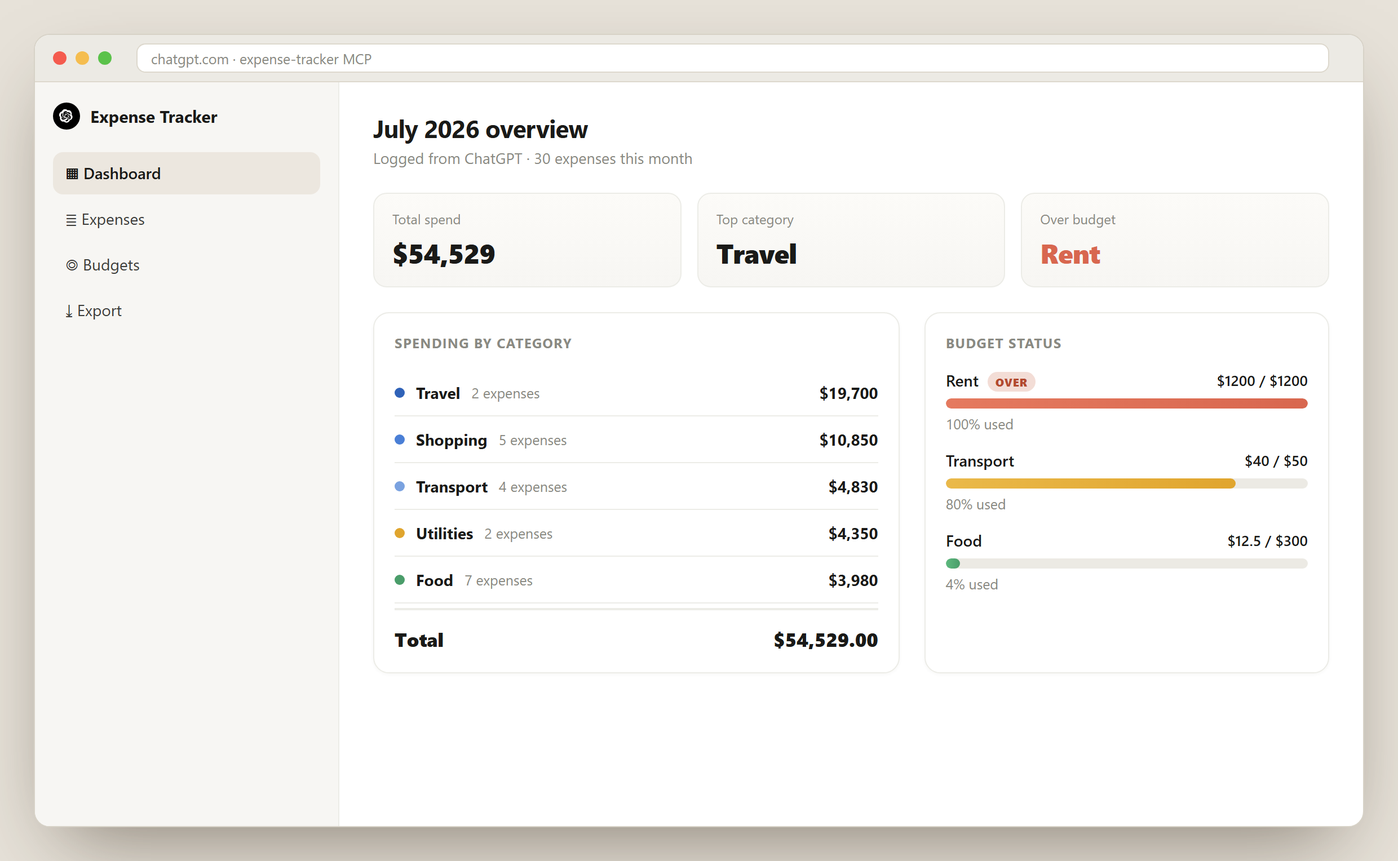
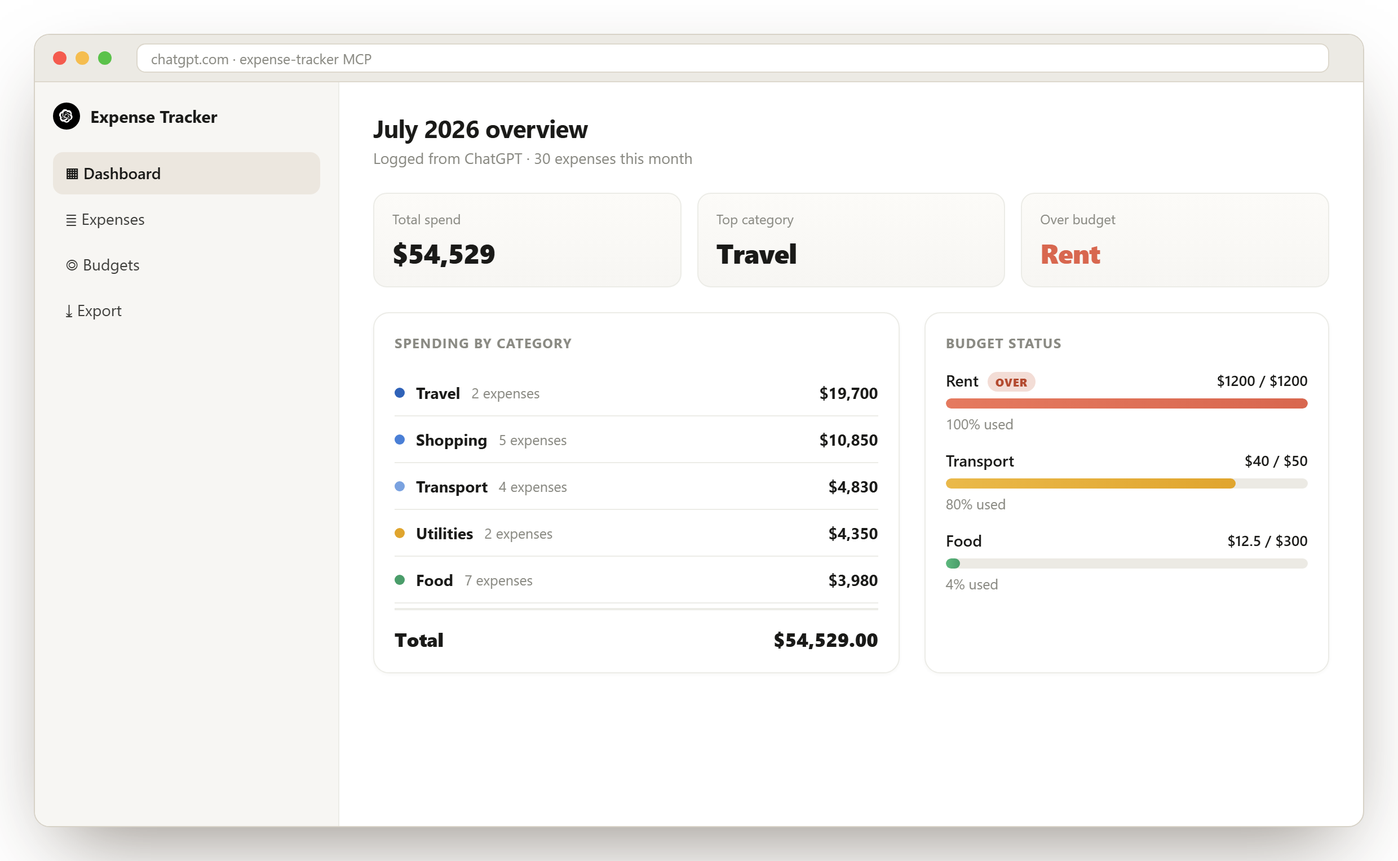
Polish marketing site + transparent PNG mockups
Site (site/index.html):
- Balanced CTAs: 'Add to Claude' + 'Add to ChatGPT' equal weight; neutral
  'Get started' in nav; Gemini added to trust bar and copy.
- Hero reframed around input methods: 'Type it. Say it. Snap it.' with
  voice / prompt / receipt-photo chips; faux-chat demo poster with a typing
  indicator instead of an empty box.
- Product showcase section embedding the rendered UI screens (both
  assistants) with per-screen labels, brand tags, and a grounding glow.
- UX pass: mobile hamburger menu, sticky-nav shadow + scroll-spy active
  link, spotlight hover on the how-it-works steps, fixed sparkle icons.

Marketing kit: export mode now renders a fully transparent canvas (html +
body), so the regenerated PNGs have no baked-in backdrop.

Changed region(s): [[0.0, 0.0, 1.0, 1.0], [0.8694, 0.4306, 0.9315, 0.4614]]

diff --git a/site/index.html b/site/index.html
@@ -3,7 +3,7 @@
 <head>
 <meta charset="utf-8" />
 <meta name="viewport" content="width=device-width, initial-scale=1" />
-<title>Expense Tracker MCP — Track expenses. Just by typing.</title>
+<title>Expense Tracker MCP — Track expenses. Type it. Say it. Snap it.</title>
 <meta name="description" content="The MCP server that gives Claude, ChatGPT, and any AI assistant the ability to log, search, and summarize your spending — no bank linking, no new app to learn." />
 <style>
   :root{
@@ -37,8 +37,11 @@
   .btn-primary{background:linear-gradient(180deg,var(--violet2),var(--violet));color:#fff;
     box-shadow:0 8px 24px -8px var(--glow),inset 0 1px 0 rgba(255,255,255,.25);}
   .btn-primary:hover{transform:translateY(-2px);box-shadow:0 14px 34px -10px var(--glow),inset 0 1px 0 rgba(255,255,255,.3);}
+  .btn-alt{background:#fff;color:#0a0a0f;box-shadow:0 8px 24px -10px rgba(255,255,255,.35),inset 0 1px 0 rgba(255,255,255,.6);}
+  .btn-alt:hover{transform:translateY(-2px);box-shadow:0 14px 34px -12px rgba(255,255,255,.4);}
   .btn-ghost{background:var(--panel);border-color:var(--line2);color:var(--ink);}
   .btn-ghost:hover{border-color:var(--violet);color:#fff;background:var(--panel2);}
+  .blogo{width:17px;height:17px;flex:0 0 17px;}
 
   /* ---------- nav ---------- */
   header.nav{position:sticky;top:0;z-index:50;backdrop-filter:blur(14px);
@@ -49,10 +52,29 @@
     display:grid;place-items:center;box-shadow:0 4px 14px -4px var(--glow);flex:0 0 28px;}
   .mark svg{width:16px;height:16px;}
   .nav nav{display:flex;gap:28px;align-items:center;}
-  .nav nav a{color:var(--ink2);font-size:14px;font-weight:500;transition:.15s;}
-  .nav nav a:hover{color:var(--ink);}
+  .nav nav a.lnk{color:var(--ink2);font-size:14px;font-weight:500;transition:.15s;position:relative;}
+  .nav nav a.lnk:hover{color:var(--ink);}
+  .nav nav a.lnk.active{color:var(--ink);}
+  .nav nav a.lnk.active::after{content:"";position:absolute;left:0;right:0;bottom:-22px;height:2px;background:var(--violet);border-radius:2px;}
   .nav .btn{padding:9px 16px;font-size:14px;}
-  @media(max-width:820px){.nav nav .lnk{display:none;}}
+  header.nav.scrolled{background:rgba(10,10,15,.9);box-shadow:0 8px 30px -18px rgba(0,0,0,.8);}
+  .menu-btn{display:none;width:40px;height:40px;border:1px solid var(--line2);border-radius:10px;background:var(--panel);
+    flex-direction:column;gap:4px;align-items:center;justify-content:center;cursor:pointer;}
+  .menu-btn span{width:16px;height:2px;background:var(--ink2);border-radius:2px;transition:.25s;}
+  .menu-btn.open span:nth-child(1){transform:translateY(6px) rotate(45deg);}
+  .menu-btn.open span:nth-child(2){opacity:0;}
+  .menu-btn.open span:nth-child(3){transform:translateY(-6px) rotate(-45deg);}
+  .mobile-menu{display:none;flex-direction:column;gap:2px;padding:8px 16px 18px;border-bottom:1px solid var(--line);
+    background:rgba(10,10,15,.96);backdrop-filter:blur(14px);}
+  .mobile-menu a{padding:13px 8px;color:var(--ink2);font-size:15px;border-bottom:1px solid var(--line);}
+  .mobile-menu a:last-child{border-bottom:none;}
+  .mobile-menu.open{display:flex;}
+  @media(max-width:820px){
+    .nav nav .lnk{display:none;}
+    .menu-btn{display:flex;}
+    .nav .btn.desk{display:none;}
+  }
+  @media(min-width:821px){ .menu-btn,.mobile-menu{display:none !important;} }
 
   /* ---------- hero ---------- */
   .hero{padding-top:96px;text-align:center;position:relative;}
@@ -62,7 +84,14 @@
   .hero h1{font-size:clamp(40px,6.6vw,74px);margin:22px 0 0;background:linear-gradient(180deg,#fff,#c9c6e6);
     -webkit-background-clip:text;background-clip:text;color:transparent;}
   .hero .lead{margin:22px auto 0;font-size:clamp(17px,1.7vw,21px);}
-  .hero .cta{display:flex;gap:14px;justify-content:center;margin-top:34px;flex-wrap:wrap;}
+  .modes{display:flex;gap:12px;justify-content:center;margin-top:26px;flex-wrap:wrap;}
+  .mode{display:inline-flex;align-items:center;gap:9px;padding:9px 16px;border-radius:999px;
+    border:1px solid var(--line2);background:var(--panel);color:var(--ink2);font-size:14px;font-weight:500;transition:.2s;}
+  .mode:hover{border-color:var(--violet);color:var(--ink);}
+  .mode svg{width:17px;height:17px;stroke:var(--violet2);}
+  .hero .cta{display:flex;gap:14px;justify-content:center;margin-top:30px;flex-wrap:wrap;}
+  .cta-note{margin-top:16px;color:var(--muted);font-size:14px;}
+  .cta-note b{color:var(--ink2);font-weight:600;}
   .pill{display:inline-flex;align-items:center;gap:8px;padding:6px 14px;border-radius:999px;
     border:1px solid var(--line2);background:var(--panel);font-size:13px;color:var(--ink2);}
   .pill .dot{width:7px;height:7px;border-radius:50%;background:#4ade80;box-shadow:0 0 8px #4ade80;}
@@ -80,9 +109,20 @@
   .playbtn{position:relative;width:76px;height:76px;border-radius:50%;background:linear-gradient(180deg,var(--violet2),var(--violet));
     display:grid;place-items:center;box-shadow:0 12px 40px -8px var(--glow);}
   .playbtn::before{content:"";border-left:22px solid #fff;border-top:13px solid transparent;border-bottom:13px solid transparent;margin-left:5px;}
-  .videobox .cap{position:absolute;bottom:18px;font-size:13px;color:var(--muted);font-family:var(--mono);}
+  .videobox .cap{position:absolute;bottom:16px;font-size:12.5px;color:var(--muted);font-family:var(--mono);z-index:3;}
+  .playwrap{position:relative;z-index:2;display:grid;place-items:center;}
   .videobox .ring{position:absolute;width:76px;height:76px;border-radius:50%;border:2px solid var(--violet);animation:pulse 2.4s ease-out infinite;}
   @keyframes pulse{0%{transform:scale(1);opacity:.7}100%{transform:scale(2.2);opacity:0}}
+  /* faux-chat poster behind the play button */
+  .poster{position:absolute;inset:0;padding:34px 44px;display:flex;flex-direction:column;justify-content:center;gap:12px;
+    mask-image:linear-gradient(90deg,#000 42%,transparent 78%);opacity:.9;}
+  .poster .pu{align-self:flex-end;background:linear-gradient(180deg,var(--violet2),var(--violet));color:#fff;font-size:14px;padding:9px 14px;border-radius:14px 14px 4px 14px;}
+  .poster .pa{align-self:flex-start;background:var(--panel2);border:1px solid var(--line2);color:var(--ink2);font-size:14px;padding:9px 14px;border-radius:14px 14px 14px 4px;display:flex;align-items:center;gap:9px;}
+  .poster .pa .pdot{width:16px;height:16px;border-radius:50%;background:#22c55e;display:grid;place-items:center;color:#fff;font-size:10px;flex:0 0 16px;}
+  .poster .typing{gap:5px;}
+  .poster .typing i{width:6px;height:6px;border-radius:50%;background:var(--violet2);display:inline-block;animation:blink 1.2s infinite;}
+  .poster .typing i:nth-child(2){animation-delay:.2s;} .poster .typing i:nth-child(3){animation-delay:.4s;}
+  @keyframes blink{0%,60%,100%{opacity:.25;transform:translateY(0)}30%{opacity:1;transform:translateY(-3px)}}
 
   /* ---------- trust bar ---------- */
   .trust{border-top:1px solid var(--line);border-bottom:1px solid var(--line);background:var(--bg2);padding:26px 0;}
@@ -94,14 +134,17 @@
 
   /* ---------- how it works ---------- */
   .steps{display:grid;grid-template-columns:repeat(3,1fr);gap:22px;margin-top:52px;}
-  .step{background:var(--panel);border:1px solid var(--line);border-radius:var(--radius);padding:28px;position:relative;transition:.2s;}
-  .step:hover{border-color:var(--line2);transform:translateY(-3px);}
-  .step .num{font-family:var(--mono);font-size:13px;color:var(--violet-ink);font-weight:600;letter-spacing:.1em;}
-  .step .ic{width:46px;height:46px;border-radius:12px;background:var(--panel2);border:1px solid var(--line2);display:grid;place-items:center;margin:16px 0 16px;}
+  .step{background:var(--panel);border:1px solid var(--line);border-radius:var(--radius);padding:28px;position:relative;transition:.2s;overflow:hidden;}
+  .step::after{content:"";position:absolute;inset:0;background:radial-gradient(420px circle at 50% 0%,rgba(139,92,246,.1),transparent 45%);opacity:0;transition:.3s;}
+  .step:hover{border-color:var(--line2);transform:translateY(-4px);}
+  .step:hover::after{opacity:1;}
+  .step>*{position:relative;z-index:1;}
+  .step .num{display:inline-block;font-family:var(--mono);font-size:12px;color:var(--violet-ink);font-weight:600;letter-spacing:.1em;padding:4px 10px;border:1px solid var(--line2);border-radius:999px;background:var(--panel2);}
+  .step .ic{width:46px;height:46px;border-radius:12px;background:linear-gradient(160deg,rgba(139,92,246,.2),rgba(139,92,246,.05));border:1px solid var(--line2);display:grid;place-items:center;margin:18px 0 16px;}
   .step .ic svg{width:24px;height:24px;stroke:var(--violet2);}
   .step h3{font-size:19px;margin-bottom:8px;}
   .step p{color:var(--ink2);font-size:15px;}
-  .step .line{position:absolute;top:44px;right:-22px;width:22px;height:1px;background:var(--line2);}
+  .step .line{position:absolute;top:44px;right:-22px;width:22px;height:1px;background:linear-gradient(90deg,var(--violet),transparent);z-index:2;}
 
   /* ---------- features ---------- */
   .grid6{display:grid;grid-template-columns:repeat(3,1fr);gap:18px;margin-top:52px;}
@@ -135,6 +178,38 @@
   .brow .bf{height:9px;border-radius:5px;background:linear-gradient(90deg,var(--violet2),var(--violet));}
   .brow .bv{text-align:right;color:var(--ink2);font-variant-numeric:tabular-nums;}
   .brow .bc{color:var(--muted);}
+
+  /* ---------- showcase ---------- */
+  .gallery{margin-top:56px;position:relative;}
+  .gallery::before{content:"";position:absolute;top:80px;left:50%;transform:translateX(-50%);
+    width:820px;max-width:100%;height:440px;z-index:0;pointer-events:none;
+    background:radial-gradient(closest-side,rgba(139,92,246,.22),transparent 72%);filter:blur(14px);}
+  .phones{position:relative;z-index:1;display:grid;grid-template-columns:repeat(4,1fr);gap:22px;align-items:end;}
+  .ph{margin:0;display:flex;flex-direction:column;align-items:center;transition:transform .35s ease;}
+  .ph img{width:100%;max-width:220px;height:auto;display:block;
+    filter:drop-shadow(0 26px 40px rgba(0,0,0,.55));transition:filter .35s ease;}
+  .ph:nth-child(1){transform:rotate(-1.5deg) translateY(10px);}
+  .ph:nth-child(2){transform:rotate(-.5deg);}
+  .ph:nth-child(3){transform:rotate(.5deg);}
+  .ph:nth-child(4){transform:rotate(1.5deg) translateY(10px);}
+  .ph:hover{transform:translateY(-8px) rotate(0) !important;}
+  .ph:hover img{filter:drop-shadow(0 30px 50px rgba(139,92,246,.4));}
+  .ph .lbl{display:flex;align-items:center;gap:8px;margin-top:18px;font-size:13.5px;color:var(--ink2);font-weight:500;}
+  .tag{font-size:10.5px;font-weight:700;letter-spacing:.04em;padding:3px 8px;border-radius:999px;text-transform:uppercase;}
+  .tag.claude{background:rgba(204,122,82,.16);color:#e0a07f;border:1px solid rgba(204,122,82,.35);}
+  .tag.gpt{background:rgba(255,255,255,.08);color:var(--ink2);border:1px solid var(--line2);}
+  .desks{display:grid;grid-template-columns:1fr 1fr;gap:22px;margin-top:56px;position:relative;z-index:1;}
+  .desks figure{margin:0;}
+  .desks img{width:100%;height:auto;border-radius:12px;
+    filter:drop-shadow(0 26px 44px rgba(139,92,246,.24));transition:filter .3s ease;}
+  .desks figure:hover img{filter:drop-shadow(0 30px 54px rgba(139,92,246,.4));}
+  .desks figcaption{color:var(--muted);font-size:13px;margin-top:14px;text-align:center;}
+  .gcap{color:var(--muted);font-size:14px;margin-top:38px;text-align:center;}
+  @media(max-width:860px){
+    .desks{grid-template-columns:1fr;}
+    .phones{grid-template-columns:1fr 1fr;gap:16px;}
+    .ph{transform:none !important;}
+  }
 
   /* ---------- pricing ---------- */
   .prices{display:grid;grid-template-columns:1fr 1fr;gap:22px;max-width:820px;margin:52px auto 0;}
@@ -202,8 +277,17 @@
       <a class="lnk" href="#features">Features</a>
       <a class="lnk" href="#pricing">Pricing</a>
       <a class="lnk" href="#faq">FAQ</a>
-      <a class="btn btn-primary" href="#">Add to Claude</a>
+      <a class="btn btn-primary desk" href="#pricing">Get started</a>
+      <button class="menu-btn" id="menuBtn" aria-label="Open menu" aria-expanded="false"><span></span><span></span><span></span></button>
     </nav>
+  </div>
+  <div class="mobile-menu" id="mobileMenu">
+    <a href="#how">How it works</a>
+    <a href="#features">Features</a>
+    <a href="#showcase">Product</a>
+    <a href="#pricing">Pricing</a>
+    <a href="#faq">FAQ</a>
+    <a href="#" style="color:var(--violet2);font-weight:600;">＋ Get started</a>
   </div>
 </header>
 
@@ -213,21 +297,33 @@
 <section class="hero sec">
   <div class="wrap">
     <span class="pill"><span class="dot"></span>Model Context Protocol server · v1.0</span>
-    <h1>Track expenses.<br>Just by typing.</h1>
-    <p class="lead">The MCP server that gives Claude, ChatGPT, and any AI assistant the ability to log, search, and summarize your spending — no bank linking, no new app to learn.</p>
-    <div class="cta">
-      <a class="btn btn-primary" href="#">＋ Add to Claude</a>
-      <a class="btn btn-ghost" href="#"><svg width="17" height="17" viewBox="0 0 24 24" fill="currentColor"><path d="M12 .5C5.7.5.5 5.7.5 12c0 5.1 3.3 9.4 7.9 10.9.6.1.8-.2.8-.5v-1.7c-3.2.7-3.9-1.5-3.9-1.5-.5-1.3-1.3-1.7-1.3-1.7-1.1-.7.1-.7.1-.7 1.2.1 1.8 1.2 1.8 1.2 1 1.8 2.7 1.3 3.4 1 .1-.8.4-1.3.7-1.6-2.6-.3-5.3-1.3-5.3-5.7 0-1.3.5-2.3 1.2-3.1-.1-.3-.5-1.5.1-3.1 0 0 1-.3 3.3 1.2a11.5 11.5 0 0 1 6 0C17.3 4.7 18.3 5 18.3 5c.6 1.6.2 2.8.1 3.1.8.8 1.2 1.8 1.2 3.1 0 4.4-2.7 5.4-5.3 5.7.4.4.8 1.1.8 2.2v3.3c0 .3.2.6.8.5A11.5 11.5 0 0 0 23.5 12C23.5 5.7 18.3.5 12 .5z"/></svg>View on GitHub</a>
+    <h1>Track expenses.<br>Type it. Say it. Snap it.</h1>
+    <p class="lead">The MCP server that lets Claude, ChatGPT, and any AI assistant log your spending from a typed prompt, a voice command, or a photo of a receipt or invoice — then search and summarize it all. No bank linking, no new app to learn.</p>
+    <div class="modes">
+      <span class="mode"><svg viewBox="0 0 24 24" fill="none" stroke-width="1.8" stroke-linecap="round" stroke-linejoin="round"><rect x="2" y="6" width="20" height="12" rx="2"/><path d="M6 10h.01M10 10h.01M14 10h.01M18 10h.01M7 14h10"/></svg>Type a prompt</span>
+      <span class="mode"><svg viewBox="0 0 24 24" fill="none" stroke-width="1.8" stroke-linecap="round" stroke-linejoin="round"><rect x="9" y="2" width="6" height="12" rx="3"/><path d="M5 10a7 7 0 0 0 14 0M12 17v4"/></svg>Say it out loud</span>
+      <span class="mode"><svg viewBox="0 0 24 24" fill="none" stroke-width="1.8" stroke-linecap="round" stroke-linejoin="round"><path d="M23 19a2 2 0 0 1-2 2H3a2 2 0 0 1-2-2V8a2 2 0 0 1 2-2h4l2-3h6l2 3h4a2 2 0 0 1 2 2z"/><circle cx="12" cy="13" r="4"/></svg>Snap a receipt</span>
     </div>
+    <div class="cta">
+      <a class="btn btn-primary" href="#"><svg class="blogo" viewBox="0 0 24 24" fill="#fff"><path d="M12 2c.5 4.5 3.5 7.5 8 8-4.5.5-7.5 3.5-8 8-.5-4.5-3.5-7.5-8-8 4.5-.5 7.5-3.5 8-8z"/></svg>Add to Claude</a>
+      <a class="btn btn-alt" href="#"><svg class="blogo" viewBox="0 0 24 24" fill="#0a0a0f"><circle cx="12" cy="12" r="10"/><circle cx="12" cy="12" r="4.4" fill="#fff"/></svg>Add to ChatGPT</a>
+      <a class="btn btn-ghost" href="#"><svg width="17" height="17" viewBox="0 0 24 24" fill="currentColor"><path d="M12 .5C5.7.5.5 5.7.5 12c0 5.1 3.3 9.4 7.9 10.9.6.1.8-.2.8-.5v-1.7c-3.2.7-3.9-1.5-3.9-1.5-.5-1.3-1.3-1.7-1.3-1.7-1.1-.7.1-.7.1-.7 1.2.1 1.8 1.2 1.8 1.2 1 1.8 2.7 1.3 3.4 1 .1-.8.4-1.3.7-1.6-2.6-.3-5.3-1.3-5.3-5.7 0-1.3.5-2.3 1.2-3.1-.1-.3-.5-1.5.1-3.1 0 0 1-.3 3.3 1.2a11.5 11.5 0 0 1 6 0C17.3 4.7 18.3 5 18.3 5c.6 1.6.2 2.8.1 3.1.8.8 1.2 1.8 1.2 3.1 0 4.4-2.7 5.4-5.3 5.7.4.4.8 1.1.8 2.2v3.3c0 .3.2.6.8.5A11.5 11.5 0 0 0 23.5 12C23.5 5.7 18.3.5 12 .5z"/></svg>GitHub</a>
+    </div>
+    <p class="cta-note">Also connects to <b>Gemini</b>, Cursor &amp; any MCP client</p>
 
     <div class="demo reveal">
       <div class="browserframe">
         <div class="bhead"><span class="d"></span><span class="d"></span><span class="d"></span><span class="u">claude.ai — expense-tracker MCP</span></div>
         <div class="videobox" id="video">
           <div class="grid"></div>
-          <div class="ring"></div>
-          <div class="playbtn"></div>
-          <div class="cap">▶ Demo — logging an expense in chat (autoplay muted loop)</div>
+          <div class="poster">
+            <div class="pu">spent $18 on lunch 🍜</div>
+            <div class="pa"><span class="pdot">✓</span> Added <b style="color:var(--ink)">$18.00</b>&nbsp;· Food · today</div>
+            <div class="pu">how much this week?</div>
+            <div class="pa typing"><i></i><i></i><i></i></div>
+          </div>
+          <div class="playwrap"><div class="ring"></div><div class="playbtn"></div></div>
+          <div class="cap">▶ Watch the 30-second demo</div>
         </div>
       </div>
     </div>
@@ -238,9 +334,11 @@
 <div class="trust">
   <div class="wrap"><div class="row">
     <span>Works with</span>
-    <span class="logo"><svg viewBox="0 0 24 24" fill="none" stroke="#a78bfa" stroke-width="2"><path d="M12 3v18M3 12h18" transform="rotate(45 12 12)"/></svg><b>Claude</b></span>
+    <span class="logo"><svg viewBox="0 0 24 24" fill="#a78bfa" stroke="none"><path d="M12 2c.5 4.5 3.5 7.5 8 8-4.5.5-7.5 3.5-8 8-.5-4.5-3.5-7.5-8-8 4.5-.5 7.5-3.5 8-8z"/></svg><b>Claude</b></span>
     <span class="sep"></span>
     <span class="logo"><svg viewBox="0 0 24 24" fill="none" stroke="#a78bfa" stroke-width="1.8"><circle cx="12" cy="12" r="9"/></svg><b>ChatGPT</b></span>
+    <span class="sep"></span>
+    <span class="logo"><svg viewBox="0 0 24 24" fill="#a78bfa"><path d="M12 2c.5 4.5 3.5 7.5 8 8-4.5.5-7.5 3.5-8 8-.5-4.5-3.5-7.5-8-8 4.5-.5 7.5-3.5 8-8z"/></svg><b>Gemini</b></span>
     <span class="sep"></span>
     <span class="logo"><svg viewBox="0 0 24 24" fill="none" stroke="#a78bfa" stroke-width="2"><path d="M4 5l8 4 8-4M4 5v14l8 4 8-4V5M12 9v14"/></svg><b>Cursor</b></span>
     <span class="sep"></span>
@@ -264,8 +362,8 @@
       <div class="step reveal">
         <span class="num">STEP 02</span>
         <div class="ic"><svg viewBox="0 0 24 24" fill="none" stroke-width="2" stroke-linecap="round" stroke-linejoin="round"><path d="M4 4h16v16H4z"/><path d="M8 10h8M8 14h5"/></svg></div>
-        <h3>Log by typing or photo</h3>
-        <p>Say “spent $12 on lunch,” or snap a receipt photo. The AI reads it and records the amount, category, and date for you.</p>
+        <h3>Type, speak, or snap</h3>
+        <p>Type “spent $12 on lunch,” say it as a voice command, or snap a receipt or invoice. The AI reads it and records the amount, category, and date for you.</p>
         <span class="line"></span>
       </div>
       <div class="step reveal">
@@ -312,7 +410,7 @@
       <div class="card reveal">
         <div class="ic"><svg viewBox="0 0 24 24" fill="none" stroke-width="2" stroke-linecap="round" stroke-linejoin="round"><circle cx="12" cy="12" r="3"/><path d="M12 3v3M12 18v3M3 12h3M18 12h3M5.6 5.6l2.1 2.1M16.3 16.3l2.1 2.1M18.4 5.6l-2.1 2.1M7.7 16.3l-2.1 2.1"/></svg></div>
         <h3>Works with any MCP client</h3>
-        <p>One server, every assistant. Claude, ChatGPT, Cursor, or anything that speaks the Model Context Protocol.</p>
+        <p>One server, every assistant. Claude, ChatGPT, Gemini, Cursor, or anything that speaks the Model Context Protocol.</p>
       </div>
     </div>
   </div>
@@ -325,14 +423,14 @@
     <h2 class="reveal" style="margin-top:14px">A real exchange, start to finish</h2>
     <div class="chat reveal">
       <div class="u"><div class="ubub">spent $45 on groceries</div></div>
-      <div class="a"><div class="astar"><svg viewBox="0 0 24 24" fill="none" stroke-width="2" stroke-linecap="round"><path d="M12 2v20M2 12h20" transform="rotate(45 12 12)"/></svg></div>
+      <div class="a"><div class="astar"><svg viewBox="0 0 24 24" fill="#a78bfa" stroke="none"><path d="M12 2c.5 4.5 3.5 7.5 8 8-4.5.5-7.5 3.5-8 8-.5-4.5-3.5-7.5-8-8 4.5-.5 7.5-3.5 8-8z"/></svg></div>
         <div class="abody">
           <div class="say">Logged it for you 👇</div>
           <div class="conf"><div class="top"><div class="chk">✓</div><div><div class="k">Expense added</div><div class="amt">$45.00</div><div class="meta">Groceries · Jul 25, 2026</div></div></div></div>
         </div>
       </div>
       <div class="u"><div class="ubub">how much this month?</div></div>
-      <div class="a"><div class="astar"><svg viewBox="0 0 24 24" fill="none" stroke-width="2" stroke-linecap="round"><path d="M12 2v20M2 12h20" transform="rotate(45 12 12)"/></svg></div>
+      <div class="a"><div class="astar"><svg viewBox="0 0 24 24" fill="#a78bfa" stroke="none"><path d="M12 2c.5 4.5 3.5 7.5 8 8-4.5.5-7.5 3.5-8 8-.5-4.5-3.5-7.5-8-8 4.5-.5 7.5-3.5 8-8z"/></svg></div>
         <div class="abody">
           <div class="say">You've spent <b style="color:var(--ink)">$1,261</b> in July. By category:</div>
           <div class="conf bars">
@@ -346,8 +444,30 @@
   </div>
 </section>
 
+<!-- SHOWCASE -->
+<section class="sec" id="showcase" style="background:var(--bg2);border-top:1px solid var(--line);border-bottom:1px solid var(--line);">
+  <div class="wrap" style="text-align:center;">
+    <span class="eyebrow reveal">Product</span>
+    <h2 class="reveal" style="margin-top:14px">The same experience in Claude and ChatGPT</h2>
+    <p class="lead reveal" style="margin:16px auto 0;">Real screens — natural-language logging, receipt scanning, budgets, and instant reports, rendered inside the assistants you already use.</p>
+    <div class="gallery reveal">
+      <div class="phones">
+        <figure class="ph"><img src="../assets/marketing/claude-add.png" alt="Logging an expense by natural language in Claude" loading="lazy"><figcaption class="lbl"><span class="tag claude">Claude</span>Log by typing</figcaption></figure>
+        <figure class="ph"><img src="../assets/marketing/chatgpt-receipt.png" alt="Logging a receipt photo in ChatGPT" loading="lazy"><figcaption class="lbl"><span class="tag gpt">ChatGPT</span>Scan a receipt</figcaption></figure>
+        <figure class="ph"><img src="../assets/marketing/claude-report.png" alt="Spending-by-category report in Claude" loading="lazy"><figcaption class="lbl"><span class="tag claude">Claude</span>Instant reports</figcaption></figure>
+        <figure class="ph"><img src="../assets/marketing/chatgpt-budget.png" alt="Monthly budget status in ChatGPT" loading="lazy"><figcaption class="lbl"><span class="tag gpt">ChatGPT</span>Budget status</figcaption></figure>
+      </div>
+      <div class="desks">
+        <figure><img src="../assets/marketing/claude-desktop.png" alt="Expense tracker desktop dashboard, logged from Claude" loading="lazy"><figcaption>Desktop dashboard — logged from Claude</figcaption></figure>
+        <figure><img src="../assets/marketing/chatgpt-desktop.png" alt="Expense tracker desktop dashboard, logged from ChatGPT" loading="lazy"><figcaption>Desktop dashboard — logged from ChatGPT</figcaption></figure>
+      </div>
+      <p class="gcap">Add expenses by typing or by photo · budgets &amp; over-spend alerts · category and monthly summaries on demand</p>
+    </div>
+  </div>
+</section>
+
 <!-- PRICING -->
-<section class="sec" id="pricing" style="background:var(--bg2);border-top:1px solid var(--line);border-bottom:1px solid var(--line);">
+<section class="sec" id="pricing">
   <div class="wrap" style="text-align:center;">
     <span class="eyebrow reveal">Pricing</span>
     <h2 class="reveal" style="margin-top:14px">Start free. Upgrade when you need more.</h2>
@@ -389,7 +509,7 @@
     <div class="faq">
       <div class="q reveal"><button>Is my financial data secure?<span class="plus">+</span></button><div class="ans"><p>Yes. Each subscriber's data is isolated automatically, stored on the server you connect to — never shared across users. Because there's no bank linking, the only data recorded is what you explicitly choose to log. Amounts are stored as exact integer values, not sold or used for anything but your own reports.</p></div></div>
       <div class="q reveal"><button>Do I need to link my bank account?<span class="plus">+</span></button><div class="ans"><p><b style="color:var(--ink)">No — never.</b> Expense Tracker MCP has no connection to banks, cards, or financial institutions. You log expenses by typing or by uploading a receipt. Your accounts stay completely untouched, which also means nothing to breach.</p></div></div>
-      <div class="q reveal"><button>Which AI assistants does this work with?<span class="plus">+</span></button><div class="ans"><p>Any client that speaks the Model Context Protocol — including Claude (desktop, mobile, and web), ChatGPT, Cursor, VS Code, and more. One server works across all of them; your expense history stays consistent no matter which assistant you're using.</p></div></div>
+      <div class="q reveal"><button>Which AI assistants does this work with?<span class="plus">+</span></button><div class="ans"><p>Any client that speaks the Model Context Protocol — including Claude (desktop, mobile, and web), ChatGPT, Gemini, Cursor, VS Code, and more. One server works across all of them; your expense history stays consistent no matter which assistant you're using.</p></div></div>
       <div class="q reveal"><button>How do I install it?<span class="plus">+</span></button><div class="ans"><p>There's nothing to install locally. Add the server to your AI client with a single connection link (the “Add to Claude” button, or your client's MCP settings), and start logging expenses in your next message. No config files, no servers to run yourself.</p></div></div>
       <div class="q reveal"><button>Does it read receipts itself?<span class="plus">+</span></button><div class="ans"><p>The receipt reading is done by your AI assistant's vision capability, which extracts the amount, vendor, and date, then calls the server with those structured details. The server stores and organizes your expenses — the host model handles the image understanding.</p></div></div>
     </div>
@@ -402,7 +522,10 @@
     <div class="finalcta reveal">
       <h2>Your next expense could just be a sentence.</h2>
       <p>Free to start. No credit card required.</p>
-      <a class="btn btn-primary" href="#" style="font-size:16px;padding:15px 28px;">＋ Add to Claude</a>
+      <div class="cta" style="margin-top:0">
+        <a class="btn btn-primary" href="#" style="font-size:16px;padding:15px 26px;"><svg class="blogo" viewBox="0 0 24 24" fill="#fff"><path d="M12 2c.5 4.5 3.5 7.5 8 8-4.5.5-7.5 3.5-8 8-.5-4.5-3.5-7.5-8-8 4.5-.5 7.5-3.5 8-8z"/></svg>Add to Claude</a>
+        <a class="btn btn-alt" href="#" style="font-size:16px;padding:15px 26px;"><svg class="blogo" viewBox="0 0 24 24" fill="#0a0a0f"><circle cx="12" cy="12" r="10"/><circle cx="12" cy="12" r="4.4" fill="#fff"/></svg>Add to ChatGPT</a>
+      </div>
     </div>
   </div>
 </section>
@@ -445,6 +568,23 @@
   // demo placeholder click
   const v=document.getElementById('video');
   if(v)v.addEventListener('click',()=>{v.querySelector('.cap').textContent='▶ Embed your demo video here (16:9, autoplay muted loop)';});
+
+  // mobile menu toggle
+  const mb=document.getElementById('menuBtn'), mm=document.getElementById('mobileMenu');
+  if(mb){mb.addEventListener('click',()=>{const o=mm.classList.toggle('open');mb.classList.toggle('open',o);mb.setAttribute('aria-expanded',o);});
+    mm.querySelectorAll('a').forEach(a=>a.addEventListener('click',()=>{mm.classList.remove('open');mb.classList.remove('open');}));}
+
+  // sticky-nav shadow + scroll-spy active link
+  const header=document.querySelector('header.nav');
+  const navlinks=[...document.querySelectorAll('.nav nav a.lnk')];
+  const secIds=['how','features','pricing','faq'];
+  const onScroll=()=>{
+    header.classList.toggle('scrolled',window.scrollY>10);
+    let cur='';
+    for(const id of secIds){const el=document.getElementById(id);if(el&&el.getBoundingClientRect().top<=140)cur=id;}
+    navlinks.forEach(a=>a.classList.toggle('active',a.getAttribute('href')==='#'+cur));
+  };
+  window.addEventListener('scroll',onScroll,{passive:true});onScroll();
 </script>
 </body>
 </html>

diff --git a/assets/marketing/marketing-kit.html b/assets/marketing/marketing-kit.html
@@ -14,9 +14,12 @@
   .claude{ --accent:#cc7a52; --model:"Sonnet 5"; }
   .chatgpt{ --accent:#10a37f; --model:"GPT-5"; }
   *{box-sizing:border-box;}
-  html,body{margin:0;padding:0;background:#e7e2d9;
+  html{margin:0;padding:0;}
+  body{margin:0;padding:0;background:#e7e2d9;
     font-family:-apple-system,"Segoe UI",Roboto,Helvetica,Arial,sans-serif;color:var(--ink);}
   .page{padding:34px;display:flex;flex-wrap:wrap;gap:34px;align-items:flex-start;}
+  /* single-shot export: transparent canvas (html + body) so PNGs have no backdrop */
+  html:has(body.single){background:transparent;}
   body.single{background:transparent;}
   body.single .page{padding:30px;display:inline-block;}
   .shot{display:flex;flex-direction:column;gap:10px;}
